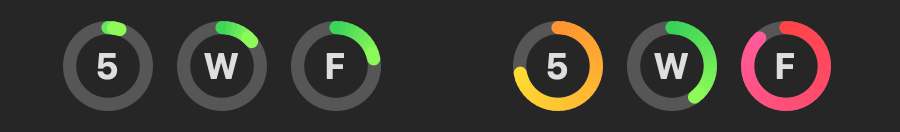
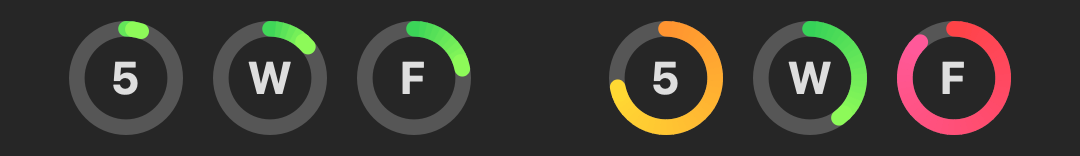
Rings: menu bar height (20 pt), 1 pt lower

diff --git a/Sources/BarRenderer.swift b/Sources/BarRenderer.swift
@@ -55,17 +55,19 @@ enum BarRenderer {
         text.draw(at: NSPoint(x: barWidth + textGap, y: y + barHeight / 2 - size.height / 2 + 0.5))
     }
 
-    static let ringDiameter: CGFloat = 16
-    static let ringGap: CGFloat = 3
-    static let ringLineWidth: CGFloat = 2.2
+    // Rings fill the menu bar's height, like the system icons next to them.
+    static let ringsHeight: CGFloat = 22
+    static let ringDiameter: CGFloat = 20
+    static let ringGap: CGFloat = 4
+    static let ringLineWidth: CGFloat = 2.6
 
     /// One ring per limit, filled clockwise from 12 o'clock, with a letter in the middle.
     static func ringsImage(_ rings: [(letter: String, percent: Double)]) -> NSImage {
         let n = CGFloat(rings.count)
         let width = n * ringDiameter + max(n - 1, 0) * ringGap
-        let image = NSImage(size: NSSize(width: width, height: height), flipped: false) { _ in
+        let image = NSImage(size: NSSize(width: width, height: ringsHeight), flipped: false) { _ in
             for (i, r) in rings.enumerated() {
-                let center = NSPoint(x: CGFloat(i) * (ringDiameter + ringGap) + ringDiameter / 2, y: height / 2)
+                let center = NSPoint(x: CGFloat(i) * (ringDiameter + ringGap) + ringDiameter / 2, y: ringsHeight / 2 - 1)   // 1 pt low: reads as centered next to system icons
                 drawRing(percent: r.percent, letter: r.letter, center: center)
             }
             return true
@@ -101,7 +103,7 @@ enum BarRenderer {
             }
         }
 
-        let font = NSFont.systemFont(ofSize: 6, weight: .bold)
+        let font = NSFont.systemFont(ofSize: 7.5, weight: .bold)
         let text = NSAttributedString(string: letter, attributes: [.font: font, .foregroundColor: NSColor.labelColor])
         // Center the glyphs' ink, not the line box: capitals and digits have no descender.
         let line = CTLineCreateWithAttributedString(text)
